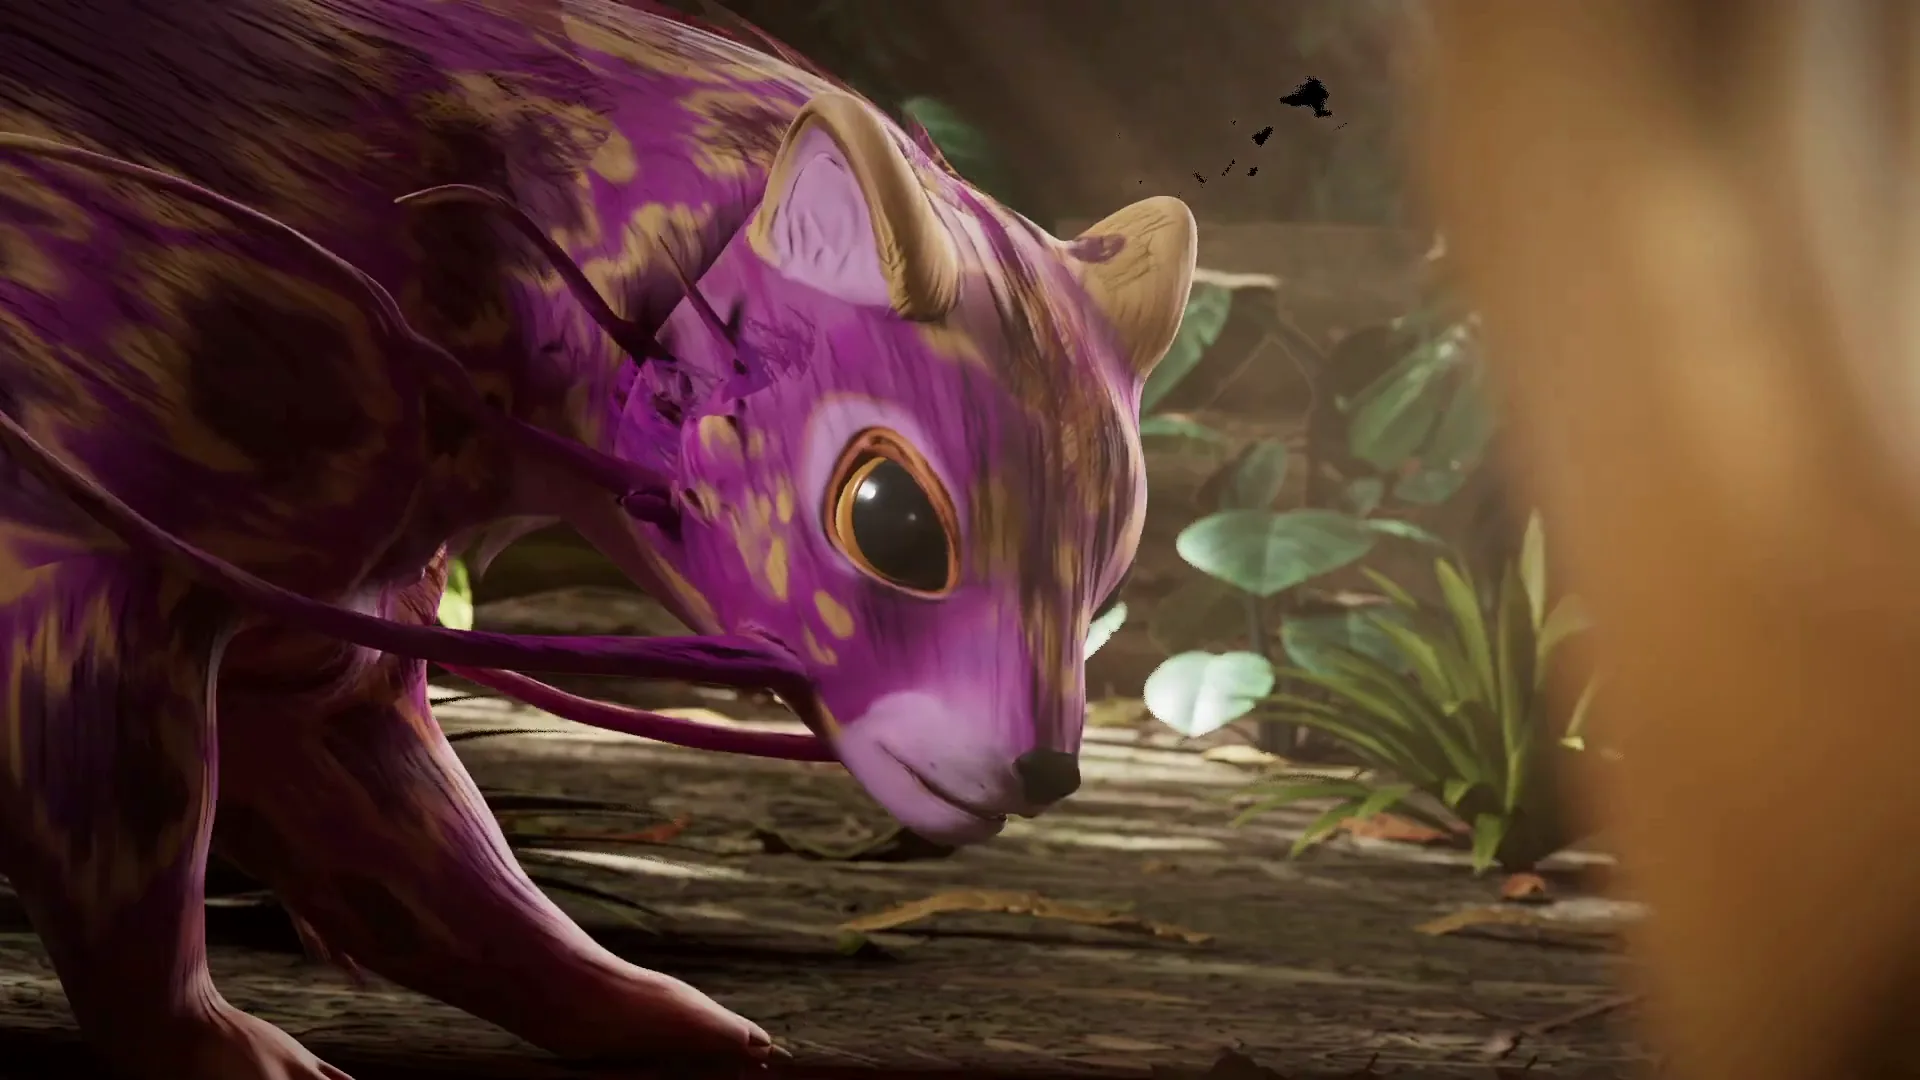
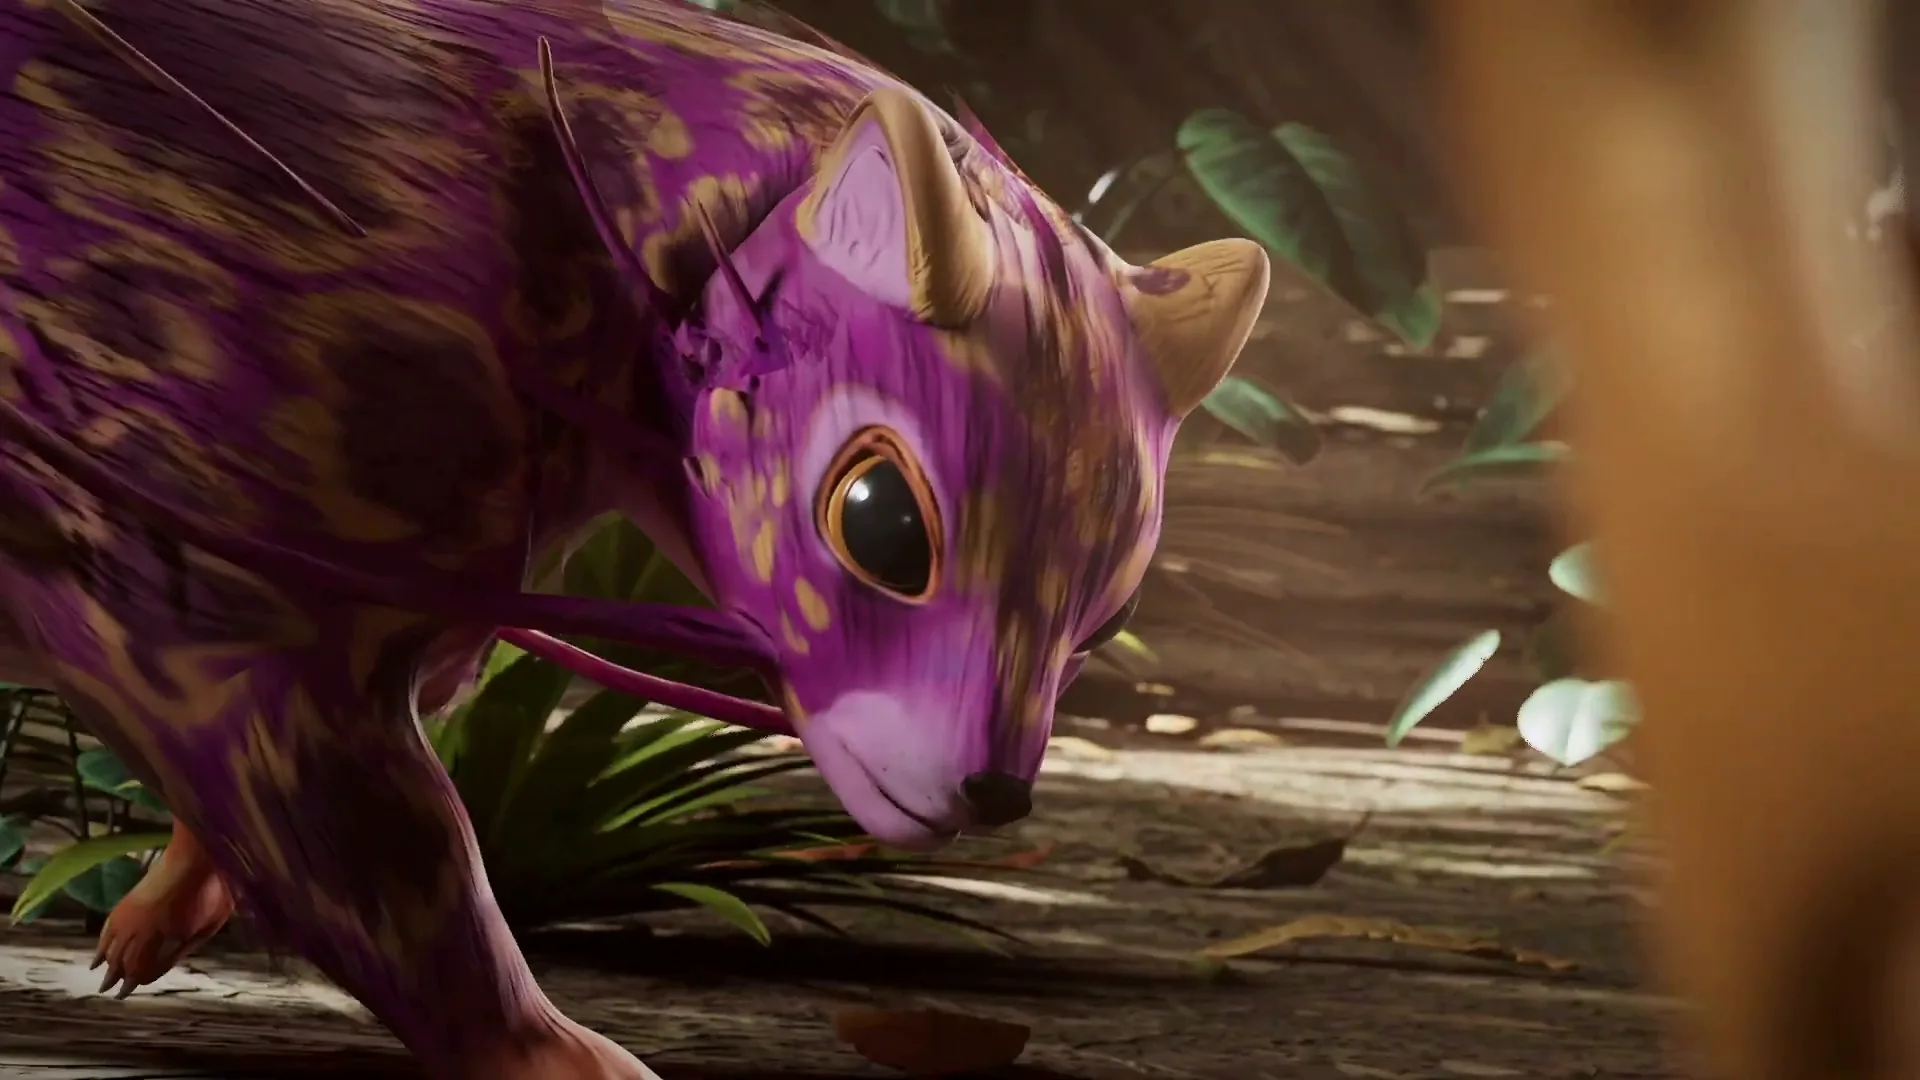
Let the hero breathe through three stills instead of freezing one
The single Akantilado frame froze mid-air debris into what read as black
holes in the sky: motion blur makes those particles natural at 60fps and
ugly at 0. The replacement frame from 66.0s has clean air, verified
against the reel's baked-in caption timing, which occupies exactly the
corner the page headline sits in for most of every segment.

Rather than betting the whole first screen on one frame, the hero now
cycles three stills from the reel on a 7s hold with a 1.6s crossfade:
the creature, the Ray cave, and the old pub still, whose bare ceiling,
the original complaint here, is cropped away by scaling and lifting just
that slide. The cycle stops for good once the reel plays, never runs for
reduced-motion visitors, and pauses in hidden tabs. The first still
doubles as the video poster so the no-JS view matches the first paint,
and the two later slides lazy-load: 153 KB for all three, 88 KB up front.

diff --git a/src/js/home-list.js b/src/js/home-list.js
@@ -50,3 +50,42 @@
   // The cover copy returns only once the reel has actually finished.
   video.addEventListener('ended', function () { setPlaying(false); });
 })();
+
+/* Hero slideshow. The stills cycle with a slow crossfade until the reel
+   starts, then stop for good: the reel carries its own picture from there.
+   Reduced-motion visitors keep the first still, and a hidden tab does not
+   burn cycles fading images nobody sees. */
+(function () {
+  var frame = document.querySelector('[data-showreel]');
+  if (!frame) return;
+  var slides = frame.querySelectorAll('.hero__slides img');
+  if (slides.length < 2) return;
+  if (window.matchMedia && window.matchMedia('(prefers-reduced-motion: reduce)').matches) return;
+
+  var current = 0;
+  var timer = null;
+  var stopped = false;
+  var HOLD_MS = 7000;
+
+  function next() {
+    slides[current].classList.remove('is-active');
+    current = (current + 1) % slides.length;
+    slides[current].classList.add('is-active');
+  }
+  function start() {
+    if (!stopped && timer === null) timer = window.setInterval(next, HOLD_MS);
+  }
+  function pause() {
+    if (timer !== null) { window.clearInterval(timer); timer = null; }
+  }
+  function stop() { stopped = true; pause(); }
+
+  var video = frame.querySelector('video');
+  if (video) video.addEventListener('play', stop);
+
+  document.addEventListener('visibilitychange', function () {
+    if (document.hidden) pause(); else start();
+  });
+
+  start();
+})();

diff --git a/src/css/home.css b/src/css/home.css
@@ -110,6 +110,30 @@ a:focus-visible { outline:2px solid var(--ice); outline-offset:3px; }
 }
 
 .hero__media { position:absolute; inset:0; z-index:0; }
+
+/* The slideshow sits between the video and the scrim: it covers the video
+   until playback starts, then fades away and never comes back on pause,
+   because the paused frame carries the reel's own titles. */
+.hero__slides { position:absolute; inset:0; overflow:hidden; }
+.hero__slides img {
+  position:absolute; inset:0;
+  width:100%; height:100%;
+  max-width:none;
+  object-fit:cover;
+  opacity:0;
+  transition:opacity 1.6s ease;
+  /* Same lift as the video so a slide and the reel grade identically. */
+  filter:brightness(1.16) contrast(1.04);
+}
+.hero__slides img.is-active { opacity:1; }
+/* The pub still keeps its old framing problem: the top fifth is bare ceiling.
+   Scaling it up and lifting it crops the dead band away. */
+.hero__slides img.hero__slide--lift { height:125%; transform:translateY(-20%); }
+.hero.is-started .hero__slides {
+  opacity:0;
+  visibility:hidden;
+  transition:opacity .5s ease, visibility 0s .5s;
+}
 .hero__media video {
   display:block;
   width:100%;

diff --git a/src/pages/index.html b/src/pages/index.html
@@ -7,6 +7,15 @@
       <source src="showreel/output/igor-szuniewicz-showreel-2026.mp4" type="video/mp4">
       Your browser does not support the video element.
     </video>
+    <!-- Stills from the reel itself, cycled with a slow crossfade until
+         playback starts. The first one doubles as the video poster above, so
+         the no-JS view and the pre-JS paint show the same frame. The pub still
+         is lifted because its top fifth is bare ceiling. -->
+    <div class="hero__slides" aria-hidden="true">
+      <img class="is-active" src="showreel/output/hero-poster.webp" alt="" aria-hidden="true" width="1920" height="1080" fetchpriority="high" decoding="async">
+      <img src="showreel/output/hero-slide-ray.webp" alt="" aria-hidden="true" width="1920" height="1080" loading="lazy" decoding="async">
+      <img class="hero__slide--lift" src="showreel/output/hero-slide-pub.webp" alt="" aria-hidden="true" width="1920" height="1080" loading="lazy" decoding="async">
+    </div>
     <div class="hero__scrim" aria-hidden="true"></div>
   </div>
 
